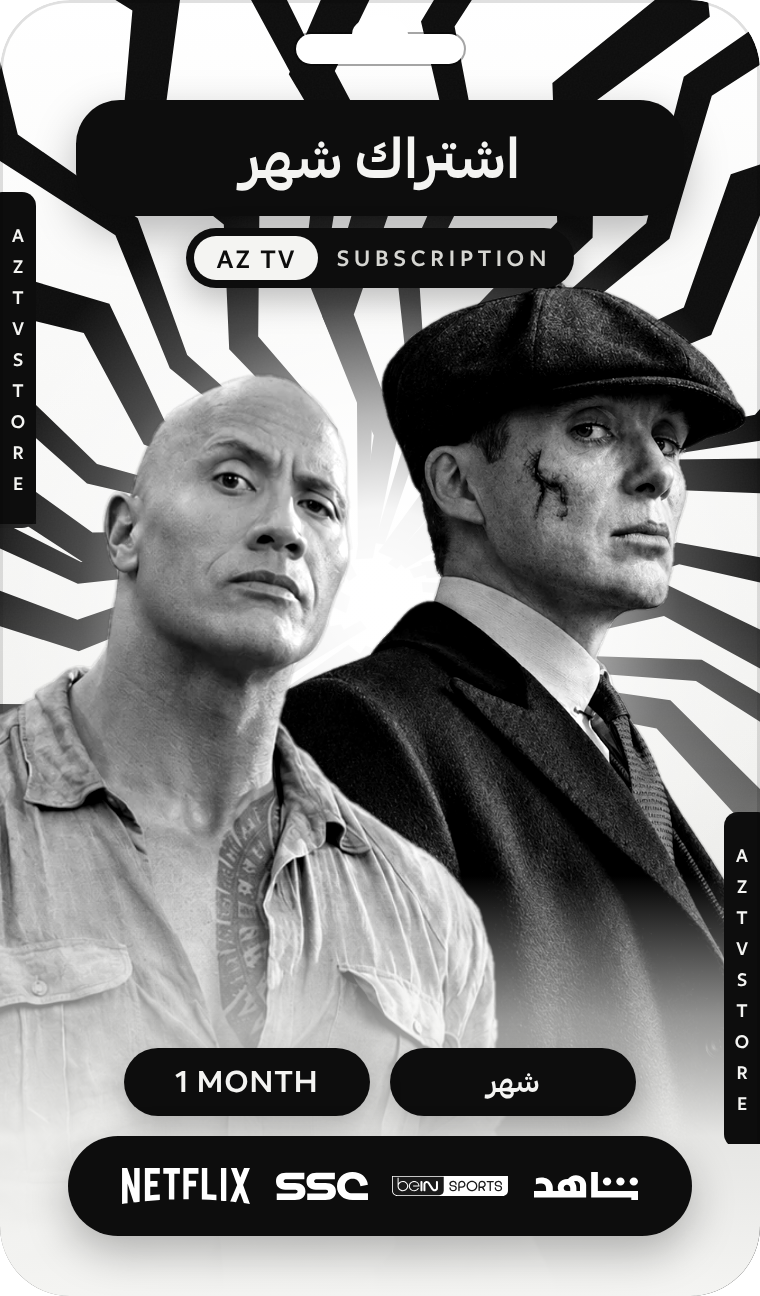
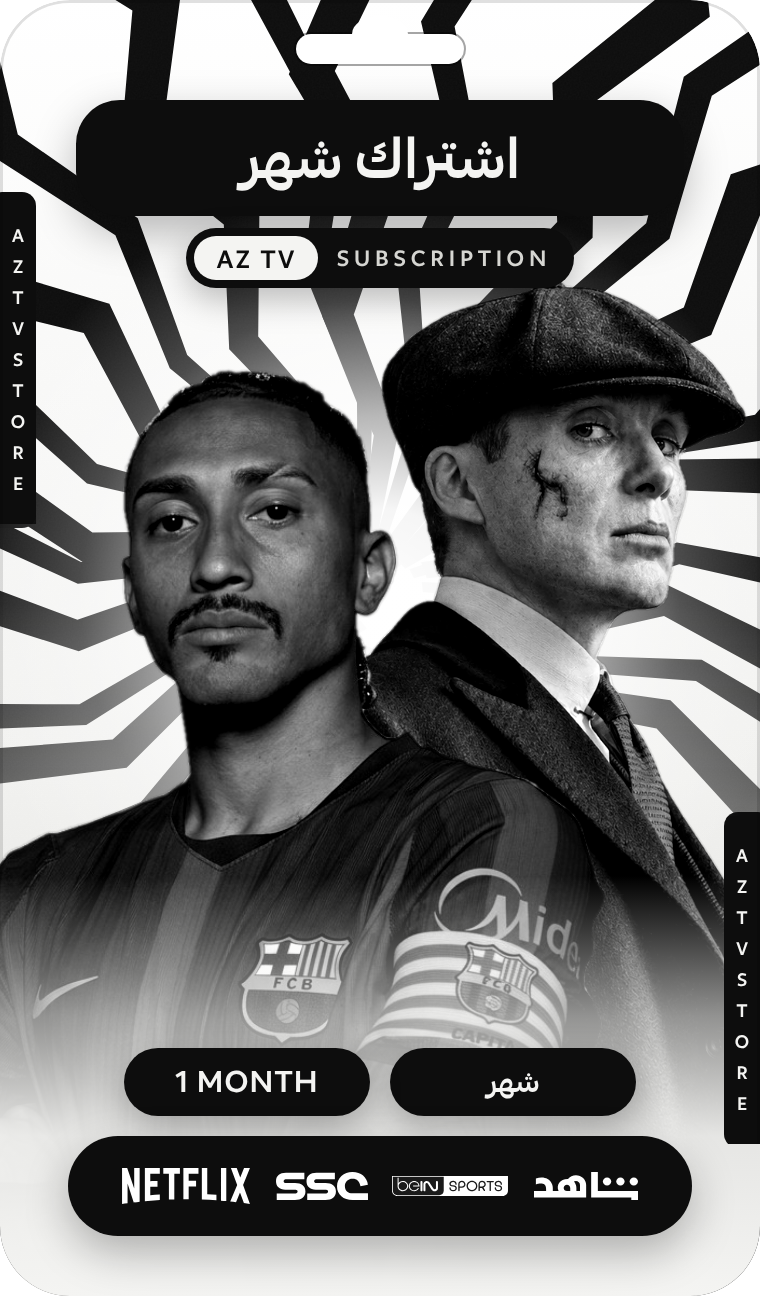
Card 4 (AZ TV 1 month): a player in front, an actor behind
Photo 004 replaces 014 so the card has one player and one actor.

Claude-Session: https://claude.ai/code/session_01FygVLnFo91EcE1sreJGJg8

Changed region(s): [[0.0, 0.2778, 0.7566, 0.8642]]

diff --git a/05-design/shared/subscription-cards/card.html b/05-design/shared/subscription-cards/card.html
@@ -145,7 +145,7 @@ const CARDS = {
     bg: REG, title: "اشتراك شهر", dEn: "1 MONTH", dAr: "شهر",
     photos: [
       { src: PH + "015-flat-cap-long-coat-scar.png", left: 79, top: 123, width: 337 },
-      { src: PH + "014-bald-khaki-shirt-gloves.png", left: -234, top: 153, width: 632 }
+      { src: PH + "004-barcelona-captain.png", left: -168, top: 127, width: 483 }
     ]
   },
   // 5. AZ TV Plus, 1 year

diff --git a/05-design/shared/subscription-cards/photo-sheet.py b/05-design/shared/subscription-cards/photo-sheet.py
@@ -6,7 +6,7 @@ from PIL import Image, ImageDraw, ImageFont
 
 # which card each photo is on (card numbers as in README.md); keep in step with CARDS in card.html
 # rejected photos are in photos/rejected/ and are not shown
-USED = {"003": 1, "012": 1, "010": 2, "013": 2, "005": 3, "009": 3, "014": 4, "015": 4, "006": 6, "002": 6}
+USED = {"003": 1, "012": 1, "010": 2, "013": 2, "005": 3, "009": 3, "004": 4, "015": 4, "006": 6, "002": 6}
 files = [(Path(f).stem[:3], f) for f in sorted(glob.glob("photos/transparent/*.png"))]
 files += [("S" + Path(f).stem[:2], f) for f in sorted(glob.glob("stars/latest-roles/vertical/transparent/0*.png"))]
 

diff --git a/05-design/shared/subscription-cards/README.md b/05-design/shared/subscription-cards/README.md
@@ -4,7 +4,7 @@ The card in the middle of every subscription product image. The background aroun
 
 **Status (2026-10-24): card 3 (`new/aztv-3m.png`, اشتراك ٣ شهور) accepted as the look for all cards. Cards 5, 7 and 8 (Plus 1 year, Plus 6 months, Plus 3 months) rejected by the client: to be redone with other photos. The rest wait for review (overview `new/all-cards.jpg`).**
 
-Cards 5, 7 and 8 have no photos for now (they render as empty cards). The client marked ten photos as not usable: 001, 007, 008 and the stars S01, S02, S04, S05, S06, S07, S08. They are kept in `photos/rejected/` (`originals/` and `transparent/`, stars renamed with their S id) and must not be used on any card. Still free to use: 004, 011 and S03 (012 is on card 1 as a stand-in).
+Cards 5, 7 and 8 have no photos for now (they render as empty cards). The client marked ten photos as not usable: 001, 007, 008 and the stars S01, S02, S04, S05, S06, S07, S08. They are kept in `photos/rejected/` (`originals/` and `transparent/`, stars renamed with their S id) and must not be used on any card. Still free to use: 011, 014 and S03 (012 is on card 1 as a stand-in).
 
 `photos/all-photos.jpg` (`python3 photo-sheet.py`) shows every usable face photo with its id (001-015 card photos, S01-S08 latest-roles stars) and the card it is on, so the client can say which photos to drop. Our first-round cards were rejected and removed (they remain in git history). The tasks are in the workspace tab «قائمة المهام», group «إعادة تصميم بطاقات الاشتراك», from `05-design/todo.json`.
 
@@ -67,13 +67,13 @@ Built from `card.html` in the accepted look of card 3, with the card photos 001-
 | 1 `aztv-15m` | 003 | 012 (stand-in: S05 rejected) |
 | 2 `aztv-6m` | 010 | 013 |
 | 3 `aztv-3m` | 005 | 009 |
-| 4 `aztv-1m` | 014 | 015 |
+| 4 `aztv-1m` | 004 | 015 |
 | 5 `plus-12m` | rejected, empty | |
 | 6 `plus-12m-2dev` | 006 | 002 |
 | 7 `plus-6m` | rejected, empty | |
 | 8 `plus-3m` | rejected, empty | |
 
-Numbers are the photos in `photos/` (cut-outs in `photos/transparent/`); stars are in `stars/latest-roles/vertical/transparent/`. Pairs follow `card-stars.json` where we have the photo; where we don't have that photo yet (Mbappé, Vinícius and Neymar among the players; Kit Harington, Bryan Cranston and others appear in the new photos instead), the closest photo we have stands in. Card 4 has two actors (014 in front, 015 behind) instead of a player and a star: the client found 007 and `07` weak and sent these two. 015 and `03` are the same actor (cards 4 and 7). Card 5 has two actors (client rejected its earlier photos 001 and 012); Morte's close-up fades out at the right edge and 008 fades out below the chest so his chair does not show. 012 and 013 replaced 008 (card 5) and the dark star `06` (card 2) at the client's request. Photo 011 was cut out with `--holes 5000` to clear the white gaps between the arms and the body.
+Numbers are the photos in `photos/` (cut-outs in `photos/transparent/`); stars are in `stars/latest-roles/vertical/transparent/`. Pairs follow `card-stars.json` where we have the photo; where we don't have that photo yet (Mbappé, Vinícius and Neymar among the players; Kit Harington, Bryan Cranston and others appear in the new photos instead), the closest photo we have stands in. Card 4 is a player (004) in front and an actor (015) behind; 014 was tried in front but the client wants one player and one actor on every card. Card 5 has two actors (client rejected its earlier photos 001 and 012); Morte's close-up fades out at the right edge and 008 fades out below the chest so his chair does not show. 012 and 013 replaced 008 (card 5) and the dark star `06` (card 2) at the client's request. Photo 011 was cut out with `--holes 5000` to clear the white gaps between the arms and the body.
 
 ## How we work
 

diff --git a/PROJECT.md b/PROJECT.md
@@ -197,6 +197,7 @@ new store design/
 
 ## 10. Log
 
+- 2026-10-24: Card 4 (AZ TV 1 month) now has a player (004) in front and an actor (015) behind, as every card should (one player, one actor); 014 is free again.
 - 2026-10-24: Plus cards simplified at the client's request (too much going on): flat gold instead of gradients, no outlines or shadows, plain package line (gold chip, white text, no box), dark grey duration and logo pills, flat black background with faint gold rays.
 - 2026-10-24: Client also rejected star S05 (Tom Holland, card 1); card 1 now has photo 012 (same actor) behind the player as a stand-in until another star is chosen.
 - 2026-10-24: Client marked ten photos as not usable: 001, 007, 008 and the latest-roles stars S01, S02, S04, S05, S06, S07, S08. Moved to `05-design/shared/subscription-cards/photos/rejected/`; never use them on a card. Cards 5, 7 and 8 are empty until new photos are chosen.
